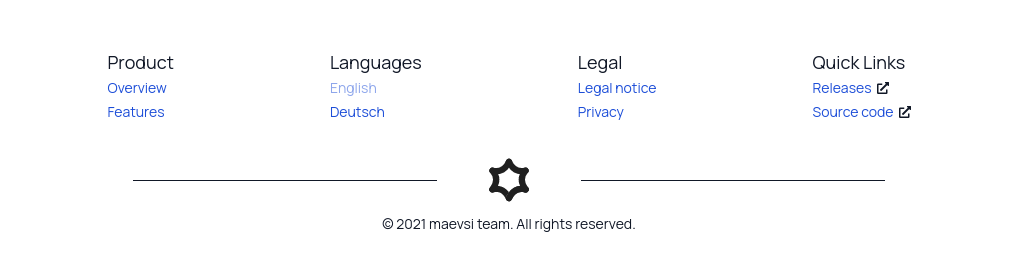
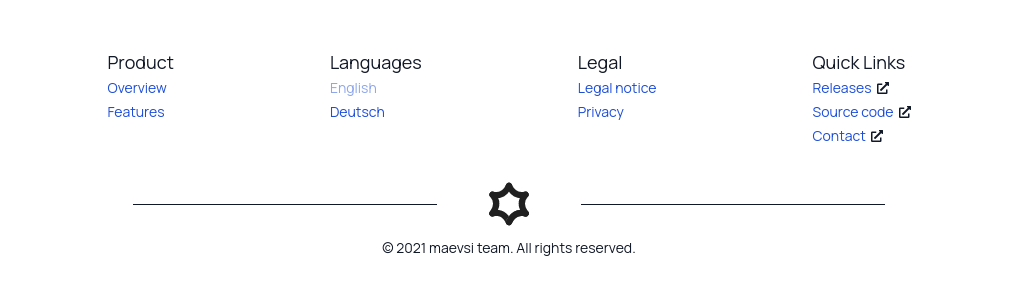
feat(footer): add support mail link
Resolves #306.

diff --git a/nuxt/components/Footer.vue b/nuxt/components/Footer.vue
@@ -66,6 +66,9 @@
           >
             {{ $t('sourceCode') }}
           </AppLink>
+          <AppLink to="mailto:mail+support@maev.si">
+            {{ $t('contact') }}
+          </AppLink>
         </FooterCategory>
       </div>
       <div class="p-2" />
@@ -96,6 +99,7 @@
 
 <i18n lang="yml">
 de:
+  contact: Kontakt
   copyright: © {year} maevsi-Team. Alle Rechte vorbehalten.
   features: Funktionen
   githubLinkTitle: maevsi auf GitHub
@@ -112,6 +116,7 @@ de:
   sourceCode: Quellcode
   team: Team
 en:
+  contact: Contact
   copyright: © {year} maevsi team. All rights reserved.
   features: Features
   githubLinkTitle: maevsi on GitHub

diff --git a/nuxt/components/AppLink.vue b/nuxt/components/AppLink.vue
@@ -1,6 +1,6 @@
 <template>
   <a
-    v-if="to.match(/^(http(s)?|ftp):\/\//)"
+    v-if="to.match(/^((ftp|http(s)?):\/\/|(mailto):)/)"
     class="items-center inline-flex"
     :href="to"
     :rel="
